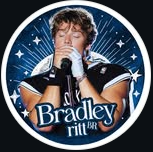
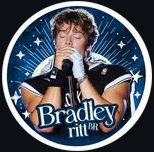
Add files via upload

diff --git a/style.css b/style.css
@@ -56,7 +56,7 @@ body::before {
 .eyebrow span { width: 25px; height: 1px; background: linear-gradient(90deg, transparent, #9fc5f5); }
 .eyebrow span:last-child { transform: rotate(180deg); }
 .avatar {
-  display: block; object-fit: cover; object-position: center;
+  display: block; object-fit: contain; object-position: center;
   width: 82px; height: 82px; margin: 22px auto 13px;
   border: 2px solid rgba(235,246,255,.95); border-radius: 50%;
   background: #0b1018;
@@ -72,7 +72,7 @@ h1 em { color: #a9ceff; font-family: "Playfair Display", serif; font-weight: 700
 .topics { display: flex; justify-content: center; flex-wrap: wrap; gap: 9px; margin: 18px 0 27px; color: #c5dcf8; font-size: 9px; font-weight: 800; letter-spacing: .12em; }
 .topics i { color: #78a9e8; font-style: normal; }
 .hero { position: relative; isolation: isolate; overflow: hidden; border: 1px solid rgba(224,239,255,.65); border-radius: 19px; background: #123d78; box-shadow: 0 18px 40px rgba(0,0,0,.28); }
-.hero img { display: block; width: 100%; aspect-ratio: 2.08 / 1; object-fit: cover; object-position: center; }
+.hero img { display: block; width: 100%; height: auto; aspect-ratio: auto; object-fit: contain; object-position: center; }
 .hero-shade { position: absolute; inset: 0; background: linear-gradient(90deg, rgba(4,18,41,.72), rgba(4,18,41,.08) 75%), linear-gradient(0deg, rgba(3,17,39,.25), transparent 55%); }
 .hero-caption { position: absolute; left: 24px; bottom: 20px; display: flex; flex-direction: column; gap: 6px; text-shadow: 0 2px 14px rgba(0,0,0,.55); }
 .caption-kicker { color: #d8eaff; font-size: 9px; font-weight: 800; letter-spacing: .2em; }
@@ -122,7 +122,6 @@ h2 { margin: 0; color: #fff; font-family: "Playfair Display", serif; font-size: 
   .avatar { width: 74px; height: 74px; margin-top: 18px; }
   .topics { gap: 7px; font-size: 8px; margin-bottom: 21px; }
   .hero { border-radius: 15px; }
-  .hero img { aspect-ratio: 1.65 / 1; }
   .hero-caption { left: 15px; bottom: 14px; }
   .caption-kicker { font-size: 8px; }
   .link-card { min-height: 72px; gap: 12px; padding: 12px; }

diff --git a/index.html b/index.html
@@ -29,7 +29,7 @@
       <h1>Bradley Rittmann <em>Brasil</em></h1>
       <p class="handle">@bradleyrittbr</p>
       <p class="bio">🇧🇷 Sua principal fonte brasileira sobre Bradley Rittmann</p>
-      <p class="member">🎤 Membro do <a href="https://www.instagram.com/soulidifiedmusic/" target="_blank" rel="noopener noreferrer">@soulidifiedmusic</a></p>
+      <p class="member">🎤 Membro do <a href="https://www.instagram.com/soulidified/" target="_blank" rel="noopener noreferrer">Soulidified Music</a></p>
       <div class="topics"><span>NOTÍCIAS</span><i>✦</i><span>FOTOS</span><i>✦</i><span>VÍDEOS</span><i>✦</i><span>ATUALIZAÇÕES</span></div>
     </header>
 
